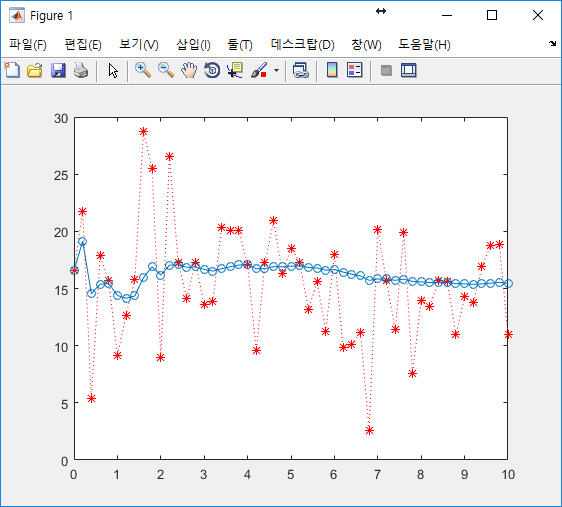
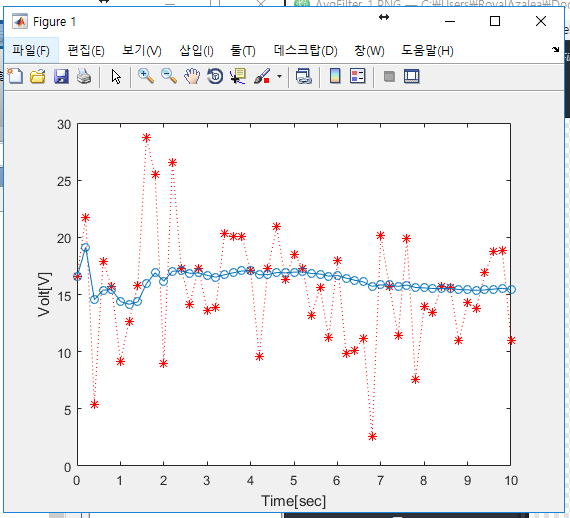
update_posts

diff --git a/_posts/kalman-filter-study/2017-02-26-kalman-filter-study.md b/_posts/kalman-filter-study/2017-02-26-kalman-filter-study.md
@@ -119,14 +119,63 @@ $$
 **LPF.m**
 
 ```matlab
+function [ xlpf ] = LPF(x)
+% 저주파 통과 필터 함수
+%   재귀적 구현
+% 평균값이 아닌 추정값 사용
+
+persistent prevX
+persistent firstRun
+
+if isempty(firstRun)
+    % 추정값이 초기의 측정값과 너무 동떨어지지 않도록, 0 대신 첫 번째 측정 데이터로 초기화함
+    prevX = x;
+
+    firstRun = 1;
+end
+
+% 가중치 설정
+alpha = 0.7;
+xlpf = alpha*prevX + (1 - alpha)*x;
+
+prevX = xlpf;
+
+end
 ```
+
 
 다음은 저주파 통과 필터를 테스트하는 예제이다.  
 
 **TestLPF.m**
 
 ```matlab
+clear all
+
+Nsamples = 500;
+Xsaved = zeros(Nsamples, 1);
+Xmsaved = zeros(Nsamples, 1);
+
+for k=1:Nsamples
+    xm = GetSonar();
+    x  = LPF(xm);
+
+    Xsaved(k) = x;
+    Xmsaved(k) = xm;
+end
+
+dt = 0.02;
+t = 0:dt:Nsamples*dt-dt;
+
+figure
+hold on
+plot(t, Xmsaved, 'r.');
+plot(t, Xsaved, 'b');
+xlabel('Time[sec]');
+ylabel('Altitude[m]');
+text(1,100,'\alpha = 0.7');
+legend('Measured','LPF','location','NorthWest')
 ```
+
 
 위 `TestLPF.m`에서 쓰인 `GetSonar`는 2장에서 쓰인 것과 동일하다. 즉, 이 예제와 2장의
 이동평균 필터에서 사용하는 측정 데이터는 동일하다.  
@@ -137,7 +186,7 @@ $$
 선정했는지가 중요하다. 1차 저주파 통과 필터의 $\alpha$는 이동평균 필터의 데이터
 개수($n$)와 비슷한 역할을 한다. 이 값으로 잡음 제거와 변화 추종 성능을 절충할 수 있다.  
 
-(`x: Time[sec], y:Altitude[m]`)  
+![LPF_1](https://raw.githubusercontent.com/RoyalAzalea/RoyalAzalea.github.io/master/static/img/_posts/kalman-filter-study/LPF_1.PNG)  
 
 아래는 $\alpha$를 각기 달리 설정한 실행 결과이다. **$\alpha$의 값이 작으면 잡음이 더
 많고, $\alpha$의 값이 크면 잡음은 줄어든 대신 시간지연이 더 커진다.**  
@@ -149,9 +198,7 @@ $$
 추정값이 직전 추정값에서 별로 달라지지 않는다. 결국 $\alpha$가 크면 잡음이 줄어들고
 추정값 그래프의 변화가 무뎌진다.  
 
-(`x: Time[sec], y:Altitude[m]`)  
-
-(`x: Time[sec], y:Altitude[m]`)  
+![LPF_2](https://raw.githubusercontent.com/RoyalAzalea/RoyalAzalea.github.io/master/static/img/_posts/kalman-filter-study/LPF_2.PNG)  
 
 정리하면 1차 저주파 통과 필터는 이동평균 필터와 달리 최신 측정값일수록 가중치를 높게 주는
 좋은 특성을 가졌다. 이 덕분에 측정 신호의 변화 추이를 이동평균 필터보다 더 잘 감지해낸다.

diff --git a/_posts/kalman-filter-study/2017-02-22-kalman-filter-study.md b/_posts/kalman-filter-study/2017-02-22-kalman-filter-study.md
@@ -157,8 +157,10 @@ figure
 hold on
 plot(t, Xmsaved, 'r.');
 plot(t, Xsaved, 'b');
-text(1,110,'n=10')
-legend('Measured','Moving average')
+xlabel('Time[sec]');
+ylabel('Altitude[m]');
+text(1,100,'n=10');
+legend('Measured','LPF','location','NorthWest')
 ```
 
 **GetSonar.m**
@@ -189,9 +191,7 @@ end
 위 `GetSonar.m`는 초음파 거리계의 측정값을 읽어오는 함수이다. 측정 데이터는 미리 준비된
 `SonarAlt.mat` 파일에서 가져온다. 아래는 실행 결과이다.  
 
-![MovAvgFilter_1](https://raw.githubusercontent.com/RoyalAzalea/RoyalAzalea.github.io/master/static/img/_posts/kalman-filter-study/MovAvgFilter_1.PNG)
-
-(`x: Time[sec], y:Altitude[m]`)  
+![MovAvgFilter_1](https://raw.githubusercontent.com/RoyalAzalea/RoyalAzalea.github.io/master/static/img/_posts/kalman-filter-study/MovAvgFilter_1.PNG)  
 
 위 그래프을 보면 이동평균 처리된 고도에 약간씩 시간지연이 있다. 실제 고도의 변화가 바로
 반영되지 않고 조금씩 늦게 나타나고 있다. 만약 시간지연이 너무 크다면 데이터 개수를
@@ -199,13 +199,9 @@ end
 늘리면 잡음 제거 성능은 개선되지만 시간지연은 커진다. 아래는 데이터 개수를 변화시킨
 실행 결과이다. 아래는 데이터 개수를 변경시킨 실행 결과이다.  
 
-![MovAvgFilter_2](https://raw.githubusercontent.com/RoyalAzalea/RoyalAzalea.github.io/master/static/img/_posts/kalman-filter-study/MovAvgFilter_2.PNG)
+![MovAvgFilter_2](https://raw.githubusercontent.com/RoyalAzalea/RoyalAzalea.github.io/master/static/img/_posts/kalman-filter-study/MovAvgFilter_2.PNG)  
 
-(`x: Time[sec], y:Altitude[m]`)  
-
-![MovAvgFilter_3](https://raw.githubusercontent.com/RoyalAzalea/RoyalAzalea.github.io/master/static/img/_posts/kalman-filter-study/MovAvgFilter_3.PNG)
-
-(`x: Time[sec], y:Altitude[m]`)  
+![MovAvgFilter_3](https://raw.githubusercontent.com/RoyalAzalea/RoyalAzalea.github.io/master/static/img/_posts/kalman-filter-study/MovAvgFilter_3.PNG)  
 
 위 그래프들을 보면 데이터 개수에 따른 잡음 제거와 시간지연의 변화를 볼 수 있다. 데이터
 개수인 $n$은 잡음 제거와 변화 민감성이라는 상충된 요구를 절충하는 역할을 한다. 만약

diff --git a/_posts/kalman-filter-study/2017-02-21-kalman-filter-study2.md b/_posts/kalman-filter-study/2017-02-21-kalman-filter-study2.md
@@ -146,6 +146,8 @@ figure
 plot(t, Xmsaved, 'r:*')
 hold on
 plot(t, Avgsaved, 'o-')
+xlabel('Time[sec]');
+ylabel('Volt[V]');
 ```
 
 **GetVolt.m**
@@ -166,9 +168,7 @@ end
 섞여있다. 잡음의 평균은 $0$ 이고 표준편차가 $4$라고 가정한다. 잡음은 MATLAB의 내장함수
 `randn`로 만들었다. 아래는 실행 결과이다.    
 
-![AvgFilter_1](https://raw.githubusercontent.com/RoyalAzalea/RoyalAzalea.github.io/master/static/img/_posts/kalman-filter-study/AvgFilter_1.PNG)
-
-(`x: Time[sec], y:Volt[V]`)  
+![AvgFilter_1](https://raw.githubusercontent.com/RoyalAzalea/RoyalAzalea.github.io/master/static/img/_posts/kalman-filter-study/AvgFilter_1.PNG)  
 
 정리하면 재귀식인 평균 필터는 직전 평균값과 데이터 개수만 알면 쉽게 평균을 구할 수 있다.
 특히 데이터가 순차적으로 입력되는 경우에는 데이터를 저장할 필요가 없고 계산 효율도 높다.
